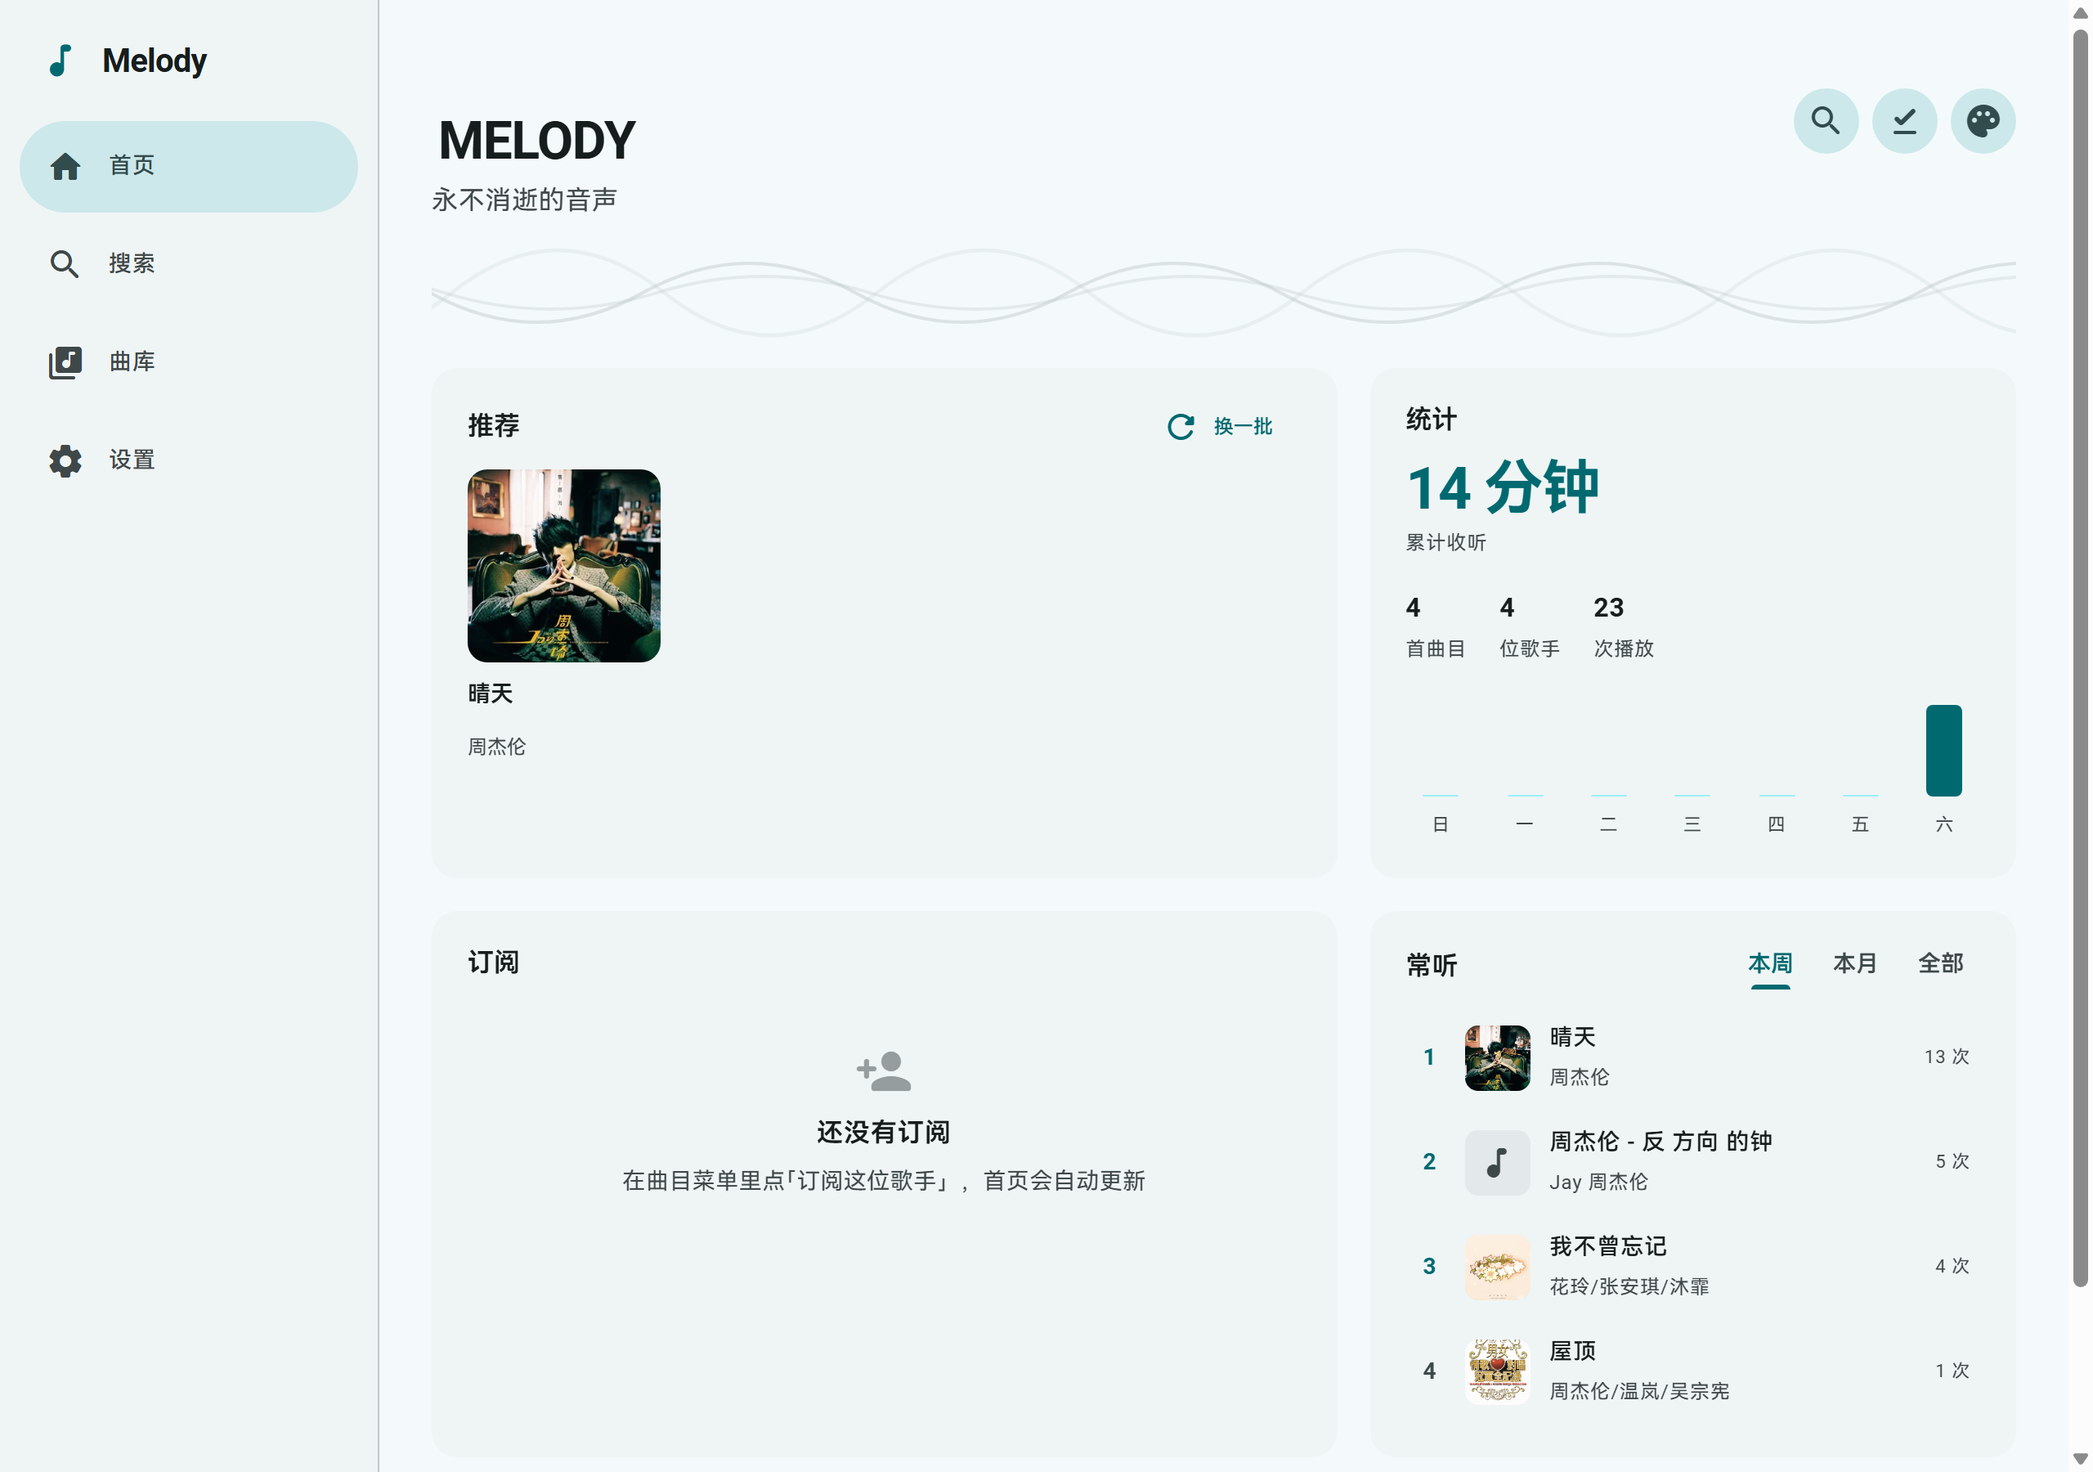
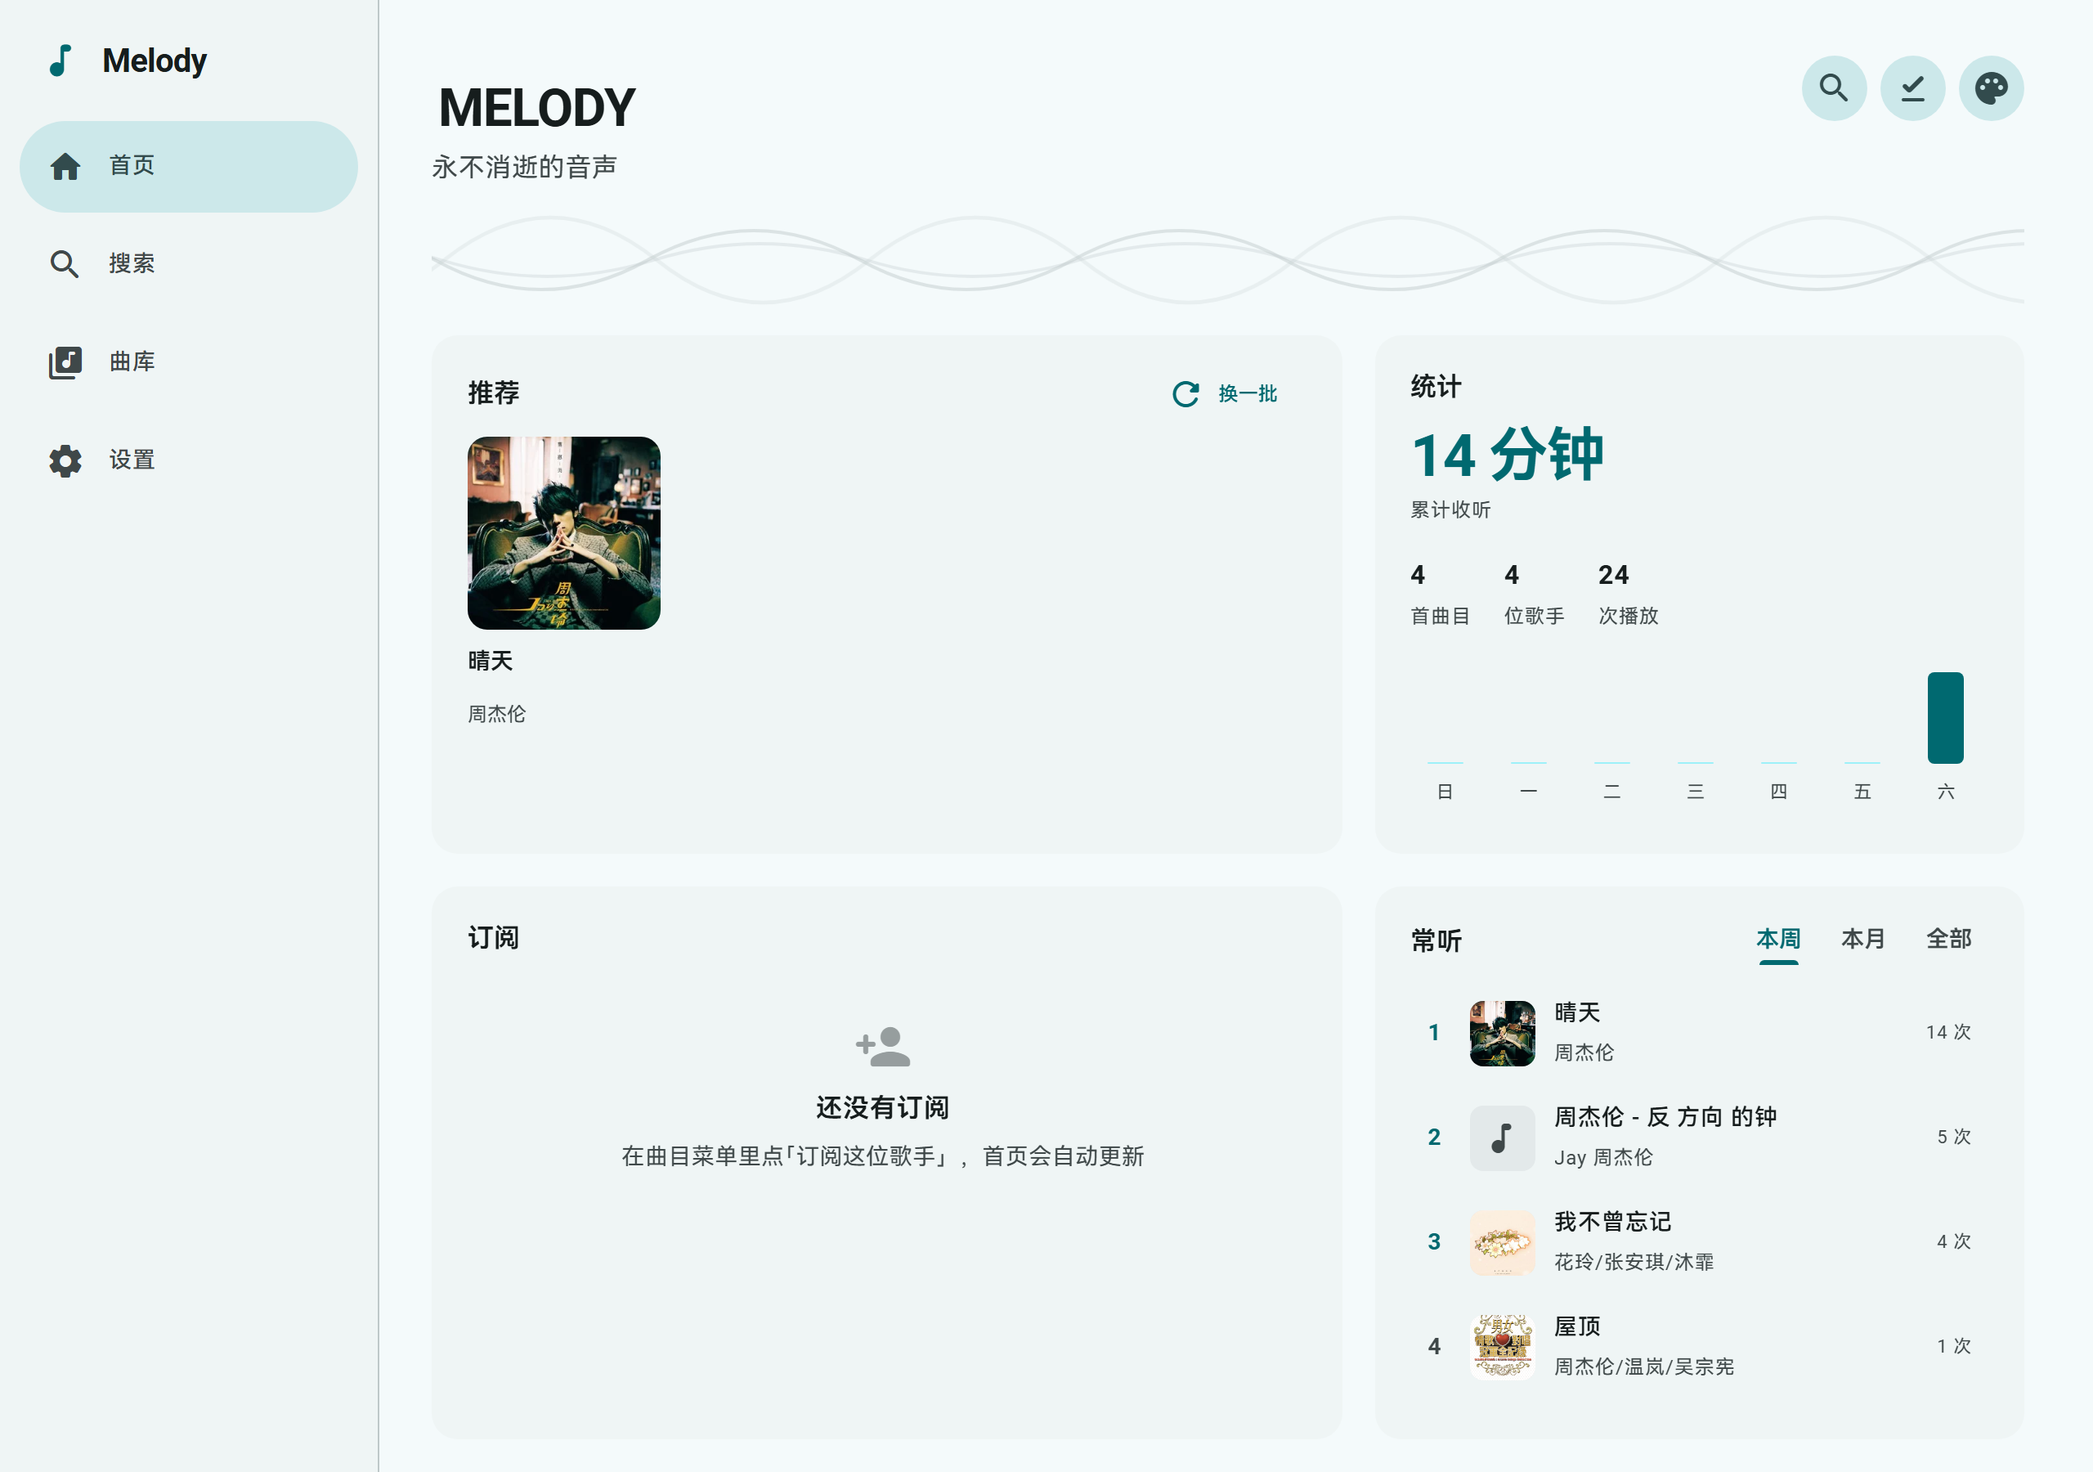
统计改记真实收听时长；桌面首页一屏内板块内滚动；自绘滚动条；桌面菜单统一右键式；播放器背景补回退；换主题加全局过渡

diff --git a/js/player/player.js b/js/player/player.js
@@ -1,7 +1,7 @@
 /* 播放引擎：单 audio 元素 + 队列 + 来源回退 */
 import { store } from '../core/store.js';
 import { resolveTrack, lyricsFor, artworkFor } from '../sources/registry.js';
-import { recordPlay, recordListen } from '../data/repo.js';
+import { recordPlay, recordListen, updateListenMs } from '../data/repo.js';
 import { parseLrc } from './lyrics.js';
 import { cacheGet } from './cache.js';
 
@@ -21,6 +21,29 @@ class Player {
     this._lastTimeUpdate = 0;
     this._recorded = '';
     this._abort = null;
+    this.listenId = null;
+    this.listenMs = 0;
+    this.listenTimer = 0;
+  }
+
+  /** 每秒累计真实收听时长；每 20 秒或暂停/切歌时落库 */
+  startListenClock() {
+    if (this.listenTimer) return;
+    this.listenTimer = setInterval(() => {
+      if (!this.audio || this.audio.paused) return;
+      this.listenMs += 1000;
+      if (this.listenMs % 20000 === 0) this.flushListen();
+    }, 1000);
+  }
+
+  flushListen() {
+    if (!this.listenId) return;
+    updateListenMs(this.listenId, this.listenMs).catch(() => {});
+  }
+
+  stopListenClock() {
+    if (this.listenTimer) { clearInterval(this.listenTimer); this.listenTimer = 0; }
+    this.flushListen();
   }
 
   init({ settings, profileId }) {
@@ -29,8 +52,8 @@ class Player {
     this.profileId = profileId;
     const audio = this.audio;
 
-    audio.addEventListener('play', () => store.patch('player', { playing: true }));
-    audio.addEventListener('pause', () => store.patch('player', { playing: false }));
+    audio.addEventListener('play', () => { store.patch('player', { playing: true }); this.startListenClock(); });
+    audio.addEventListener('pause', () => { store.patch('player', { playing: false }); this.stopListenClock(); });
     audio.addEventListener('waiting', () => store.patch('player', { loading: true }));
     audio.addEventListener('canplay', () => store.patch('player', { loading: false }));
     audio.addEventListener('playing', () => store.patch('player', { loading: false, error: null }));
@@ -47,11 +70,13 @@ class Player {
         recordPlay(this.profileId, store.state.player.track).catch(() => {});
       }
     });
-    audio.addEventListener('ended', () => this.handleEnded());
+    audio.addEventListener('ended', () => { this.stopListenClock(); this.handleEnded(); });
     audio.addEventListener('error', () => {
       const message = audio.error ? '播放失败（' + (audio.error.code || '?') + '）' : '播放失败';
       store.patch('player', { error: message, playing: false, loading: false });
     });
+    window.addEventListener('pagehide', () => this.flushListen());
+    document.addEventListener('visibilitychange', () => { if (document.hidden) this.flushListen(); });
     this.bindMediaSession();
     store.patch('player', { repeat: this.repeat, shuffle: this.shuffle });
   }
@@ -96,7 +121,14 @@ class Player {
       store.patch('player', { queue: this.queue.slice(), index: 0 });
     }
     store.patch('player', { track, loading: true, error: null, current: 0, duration: track.duration || 0 });
-    if (this.profileId) recordListen(this.profileId, track).catch(() => {});
+    this.stopListenClock();
+    this.listenId = null;
+    this.listenMs = 0;
+    if (this.profileId) {
+      recordListen(this.profileId, track)
+        .then((id) => { this.listenId = id; })
+        .catch(() => {});
+    }
     this.updateMediaSession(track);
     this.lyrics = { trackId: track.id, lines: [], loading: true, error: '' };
 

diff --git a/css/app.css b/css/app.css
@@ -1087,3 +1087,64 @@ img[data-cover].is-missing { opacity: 0; }
 
 .task-row__progress.is-indet span { width: 40%; animation: indet 1.4s var(--ease-std) infinite; }
 
+
+
+/* ==========================================================================
+   桌面首页：一屏之内，板块内部滚动
+   ========================================================================== */
+@media (min-width: 840px) {
+  body[data-fixed="true"] { overflow: hidden; }
+  body[data-fixed="true"] .page {
+    display: flex; flex-direction: column;
+    height: 100dvh; overflow: hidden;
+    padding-top: 0; padding-bottom: 20px;
+  }
+  body[data-fixed="true"] .page-view { display: flex; flex-direction: column; flex: 1 1 auto; min-height: 0; }
+  body[data-fixed="true"] .home-head { flex: 0 0 auto; padding-top: 28px; }
+  body[data-fixed="true"] .waves { flex: 0 0 auto; }
+  body[data-fixed="true"] .home-main { flex: 1 1 auto; min-height: 0; }
+  .home-card { min-height: 0; overflow: hidden; }
+  .home-card__scroll { flex: 1 1 auto; min-height: 0; overflow-y: auto; padding-right: 4px; }
+}
+
+/* 订阅：每个歌手一组，组内横向排列 */
+.album-row { display: flex; gap: 12px; overflow-x: auto; overflow-y: hidden; padding: 2px 2px 8px; }
+.album-row .media { flex: 0 0 128px; }
+.sub-artist + .sub-artist { margin-top: 18px; }
+
+/* 自绘滚动条 */
+* {
+  scrollbar-width: thin;
+  scrollbar-color: color-mix(in srgb, var(--md-sys-color-outline) 55%, transparent) transparent;
+}
+::-webkit-scrollbar { width: 11px; height: 11px; }
+::-webkit-scrollbar-track { background: transparent; }
+::-webkit-scrollbar-thumb {
+  background: color-mix(in srgb, var(--md-sys-color-outline) 50%, transparent);
+  border-radius: 999px;
+  border: 3px solid transparent;
+  background-clip: content-box;
+  min-height: 44px;
+}
+::-webkit-scrollbar-thumb:hover { background: color-mix(in srgb, var(--md-sys-color-outline) 78%, transparent); background-clip: content-box; }
+::-webkit-scrollbar-corner { background: transparent; }
+
+
+
+/* 主题切换的全局过渡 */
+html.theme-transition *,
+html.theme-transition *::before,
+html.theme-transition *::after {
+  transition:
+    background-color 400ms var(--ease-std),
+    color 400ms var(--ease-std),
+    border-color 400ms var(--ease-std),
+    box-shadow 400ms var(--ease-std),
+    fill 400ms var(--ease-std) !important;
+}
+/* 没有封面时，播放器背景用主题色淡淡铺一层 */
+.player__bg--plain {
+  display: block;
+  background: color-mix(in srgb, var(--md-sys-color-primary) 14%, transparent);
+}
+

diff --git a/js/ui/pages/home.js b/js/ui/pages/home.js
@@ -81,7 +81,7 @@ function topBlock(rows, range) {
 const albumIndex = new Map();
 
 function albumGrid(albums) {
-  return '<div class="media-grid media-grid--album">' + albums.slice(0, 6).map((album) =>
+  return '<div class="album-row">' + albums.slice(0, 6).map((album) =>
     '<button class="media media--album" type="button" data-album-key="' + esc(album.name.toLowerCase()) + '">' +
       '<span class="media__art media__art--square">' + icon('album') + coverMarkup(album.track, { size: 240 }) + '</span>' +
       '<span class="media__title">' + esc(album.name) + '</span>' +
@@ -203,19 +203,19 @@ async function mountHome(root) {
     '<div class="home-main">' +
       '<section class="home-card home-card--wide">' +
         sectionHeader('推荐', '<button class="btn btn--text btn--sm" data-refresh>' + icon('refresh') + '换一批</button>') +
-        '<div data-recs>' + (recs.length ? tileGrid(recs) : emptyState('auto_awesome', '曲库还空着', '收藏或缓存一些歌，这里就会开始推荐')) + '</div>' +
+        '<div class="home-card__scroll" data-recs>' + (recs.length ? tileGrid(recs) : emptyState('auto_awesome', '曲库还空着', '收藏或缓存一些歌，这里就会开始推荐')) + '</div>' +
       '</section>' +
       '<section class="home-card">' +
         sectionHeader('统计') +
-        '<div data-stats>' + statBlock(stats) + '</div>' +
+        '<div class="home-card__scroll" data-stats>' + statBlock(stats) + '</div>' +
       '</section>' +
       '<section class="home-card home-card--wide">' +
         sectionHeader('订阅') +
-        '<div data-subs>' + subBlock(subs, subFeed) + '</div>' +
+        '<div class="home-card__scroll" data-subs>' + subBlock(subs, subFeed) + '</div>' +
       '</section>' +
       '<section class="home-card">' +
         sectionHeader('常听', '<div class="tabbar tabbar--sm" data-range></div>') +
-        '<div data-top>' + topBlock(topRows, 'week') + '</div>' +
+        '<div class="home-card__scroll" data-top>' + topBlock(topRows, 'week') + '</div>' +
       '</section>' +
     '</div>';
 
@@ -260,5 +260,6 @@ export const homeRoute = {
   level: 1,
   title: '首页',
   dest: 'home',
+  fixed: true,
   mount: mountHome,
 };

diff --git a/js/ui/components.js b/js/ui/components.js
@@ -148,7 +148,7 @@ export function openActionMenu(options = {}) {
   const items = (options.items || []).filter(Boolean);
   const anchor = options.anchor;
   const rect = options.rect || (anchor && anchor.getBoundingClientRect ? anchor.getBoundingClientRect() : null);
-  const desktop = window.matchMedia('(min-width: 840px)').matches && Boolean(rect);
+  const desktop = window.matchMedia('(min-width: 840px)').matches && Boolean(rect || point);
 
   if (!desktop) {
     const body = '<div class="menu menu--sheet">' + items.map(menuItemHTML).join('') + '</div>';
@@ -168,8 +168,9 @@ export function openActionMenu(options = {}) {
   const box = menu.getBoundingClientRect();
   const point = options.point || null;
   const validRect = rect && rect.width > 0 && rect.height > 0;
-  const anchorLeft = validRect ? rect.right : (point && point.x ? point.x : window.innerWidth - 24);
-  const anchorTop = validRect ? rect.bottom : (point && point.y ? point.y : 80);
+  const validPoint = point && (point.x || point.y);
+  const anchorLeft = validPoint ? point.x : (validRect ? rect.right : window.innerWidth - 24);
+  const anchorTop = validPoint ? point.y : (validRect ? rect.bottom : 80);
   let left = anchorLeft - box.width;
   left = Math.max(8, Math.min(left, window.innerWidth - box.width - 8));
   let top = anchorTop + 6;
@@ -266,7 +267,9 @@ export function attachSongList(root, tracks, handlers = {}) {
     if (!row) return;
     event.preventDefault();
     const track = byId.get(row.dataset.trackId);
-    if (track && handlers.onInfo) handlers.onInfo(track, row);
+    if (!track) return;
+    if (handlers.onMore) handlers.onMore(track, row.querySelector('[data-more]'), event);
+    else if (handlers.onInfo) handlers.onInfo(track, row);
   });
 
   list.addEventListener('keydown', (event) => {

diff --git a/js/core/theme.js b/js/core/theme.js
@@ -80,6 +80,7 @@ export function resolveDark(mode) {
 
 let current = { seed: DEFAULT_SEED, mode: 'system', variant: 'tonal' };
 let mediaBound = false;
+let themeTransitionTimer = 0;
 
 export function currentTheme() { return { ...current }; }
 
@@ -94,6 +95,13 @@ export function applyTheme(next = {}) {
   root.style.colorScheme = dark ? 'dark' : 'light';
   const meta = document.querySelector('meta[name="theme-color"]');
   if (meta && vars['--md-sys-color-surface']) meta.setAttribute('content', vars['--md-sys-color-surface']);
+
+  // 换主题时给所有颜色属性加一段过渡，避免瞬间跳变
+  if (!root.classList.contains('theme-transition')) {
+    root.classList.add('theme-transition');
+    clearTimeout(themeTransitionTimer);
+    themeTransitionTimer = setTimeout(() => root.classList.remove('theme-transition'), 460);
+  }
 
   if (!mediaBound) {
     mediaBound = true;

diff --git a/js/data/repo.js b/js/data/repo.js
@@ -265,13 +265,22 @@ const DAY = 86400000;
 
 /** 每次开始播放记一条，用于统计与排行（不是历史列表） */
 export async function recordListen(profileId, track) {
-  if (!profileId || !track) return;
+  if (!profileId || !track) return null;
   const record = toRecord(track);
   await idb.put('tracks', record);
-  await idb.put('plays', {
+  return idb.put('plays', {
     profileId, trackId: record.id, track: record,
-    at: Date.now(), ms: (record.duration || 0) * 1000,
+    at: Date.now(), ms: 0,
   });
+}
+
+/** 播放过程中把真实收听时长写回当前这条播放记录 */
+export async function updateListenMs(id, ms) {
+  if (!id || !Number.isFinite(ms) || ms < 0) return;
+  const row = await idb.get('plays', id);
+  if (!row) return;
+  row.ms = Math.round(ms);
+  await idb.put('plays', row);
 }
 
 export async function listPlays(profileId, sinceMs) {

diff --git a/tools/t-ctxmenu.js b/tools/t-ctxmenu.js
@@ -1,0 +1,11 @@
+(async () => {
+  await new Promise((r) => setTimeout(r, 3200));
+  const row = document.querySelector('[data-track-id]');
+  if (!row) return { error: 'no row' };
+  const rect = row.getBoundingClientRect();
+  const ev = new MouseEvent('contextmenu', { bubbles: true, clientX: rect.left + 240, clientY: rect.top + 20 });
+  row.dispatchEvent(ev);
+  await new Promise((r) => setTimeout(r, 500));
+  const menu = document.querySelector('.menu--popover');
+  return { popover: !!menu, items: menu ? Array.from(menu.querySelectorAll('.menu__label')).map((n) => n.textContent) : [], left: menu ? Math.round(menu.getBoundingClientRect().left) : null, top: menu ? Math.round(menu.getBoundingClientRect().top) : null };
+})()

diff --git a/js/ui/shell.js b/js/ui/shell.js
@@ -94,7 +94,9 @@ function renderPlayer() {
   const active = activeLineIndex(lyrics.lines, state.current);
 
   node.innerHTML =
-    (blurEnabled() && thumb ? '<div class="player__bg"><img data-cover data-src="' + esc(thumb) + '" alt=""></div>' : '<div class="player__bg player__bg--plain"></div>') +
+    (blurEnabled() && thumb
+      ? '<div class="player__bg"><img data-cover data-src="' + esc(thumb) + '" data-fallbacks="' + esc(fallbacks) + '" alt=""></div>'
+      : '<div class="player__bg player__bg--plain"></div>') +
     '<div class="player__inner">' +
       '<div class="player__top">' +
         '<button class="icon-btn" data-collapse aria-label="收起">' + icon('keyboard_arrow_down') + '</button>' +

diff --git a/js/ui/track-menu.js b/js/ui/track-menu.js
@@ -8,6 +8,7 @@ import {
 import { enqueue, taskOf } from '../player/queue.js';
 import { downloadTrack } from '../download/download.js';
 import { refreshCacheState } from './cache-state.js';
+import { openTrackInfo } from './track-info.js';
 import { store } from '../core/store.js';
 import { player } from '../player/player.js';
 
@@ -86,6 +87,7 @@ export async function openTrackMenu(track, options = {}) {
         if (options.onCacheChange) options.onCacheChange();
       },
     } : null,
+    { icon: 'info', label: '查看详细信息', onSelect: () => openTrackInfo(track) },
     {
       icon: 'queue_music',
       label: '加入播放队列',

diff --git a/tools/t-stats.js b/tools/t-stats.js
@@ -1,0 +1,11 @@
+(async () => {
+  await new Promise((r) => setTimeout(r, 3200));
+  const rows = document.querySelectorAll('[data-track-id]');
+  rows[0].click();
+  await new Promise((r) => setTimeout(r, 6500));
+  const { store } = await import('./js/core/store.js');
+  const repo = await import('./js/data/repo.js');
+  const stats = await repo.listeningStats(store.state.profileId);
+  const plays = await repo.listPlays(store.state.profileId, 0);
+  return { totalMs: stats.totalMs, plays: stats.plays, lastMs: plays.length ? plays[plays.length - 1].ms : null };
+})()

diff --git a/js/core/router.js b/js/core/router.js
@@ -74,6 +74,7 @@ export const router = {
 
     document.body.dataset.level = String(level);
     document.body.dataset.detail = String(level > 1);
+    document.body.dataset.fixed = String(Boolean(route.fixed));
     const dest = route.dest || parsed.path.split('/')[1] || 'home';
     document.body.dataset.dest = dest;
     document.querySelectorAll('.nav__item').forEach((item) => {

diff --git a/js/data/db.js b/js/data/db.js
@@ -83,9 +83,9 @@ export async function byIndex(name, index, value) {
 
 export async function put(name, value) {
   const { store, wait } = await objectStore(name, 'readwrite');
-  store.put(value);
+  const request = store.put(value);
   await wait;
-  return value;
+  return request.result;
 }
 
 export async function putAll(name, values) {
